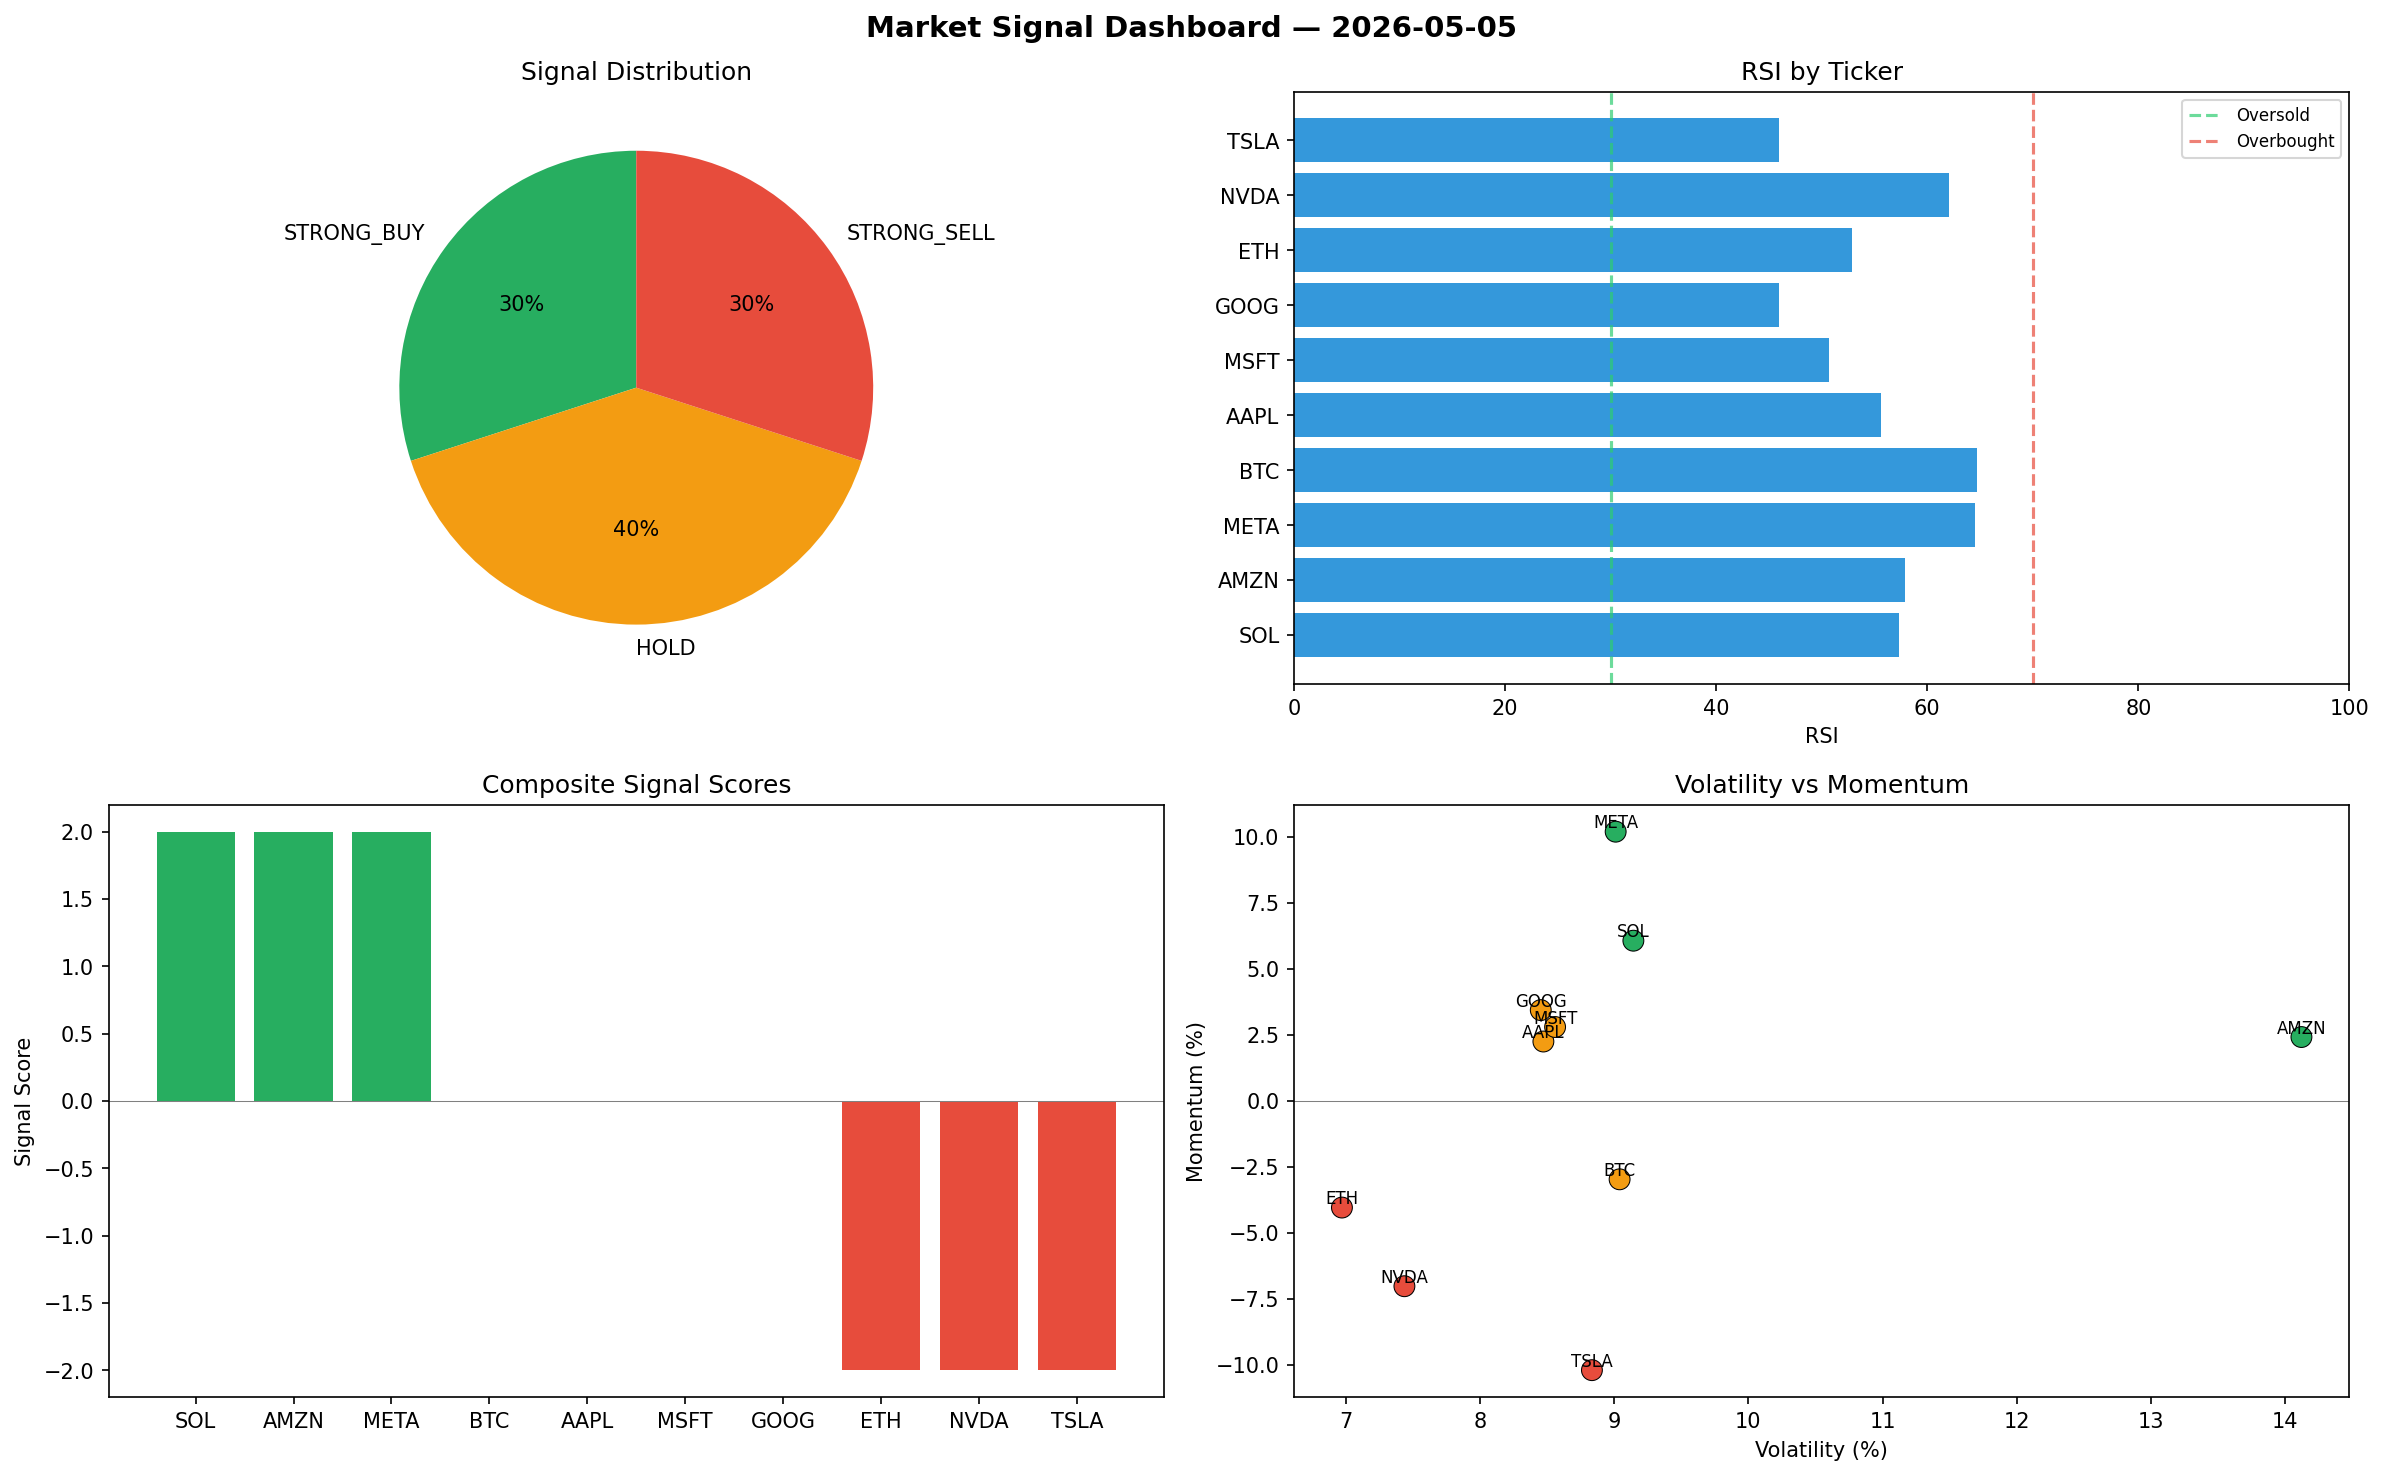
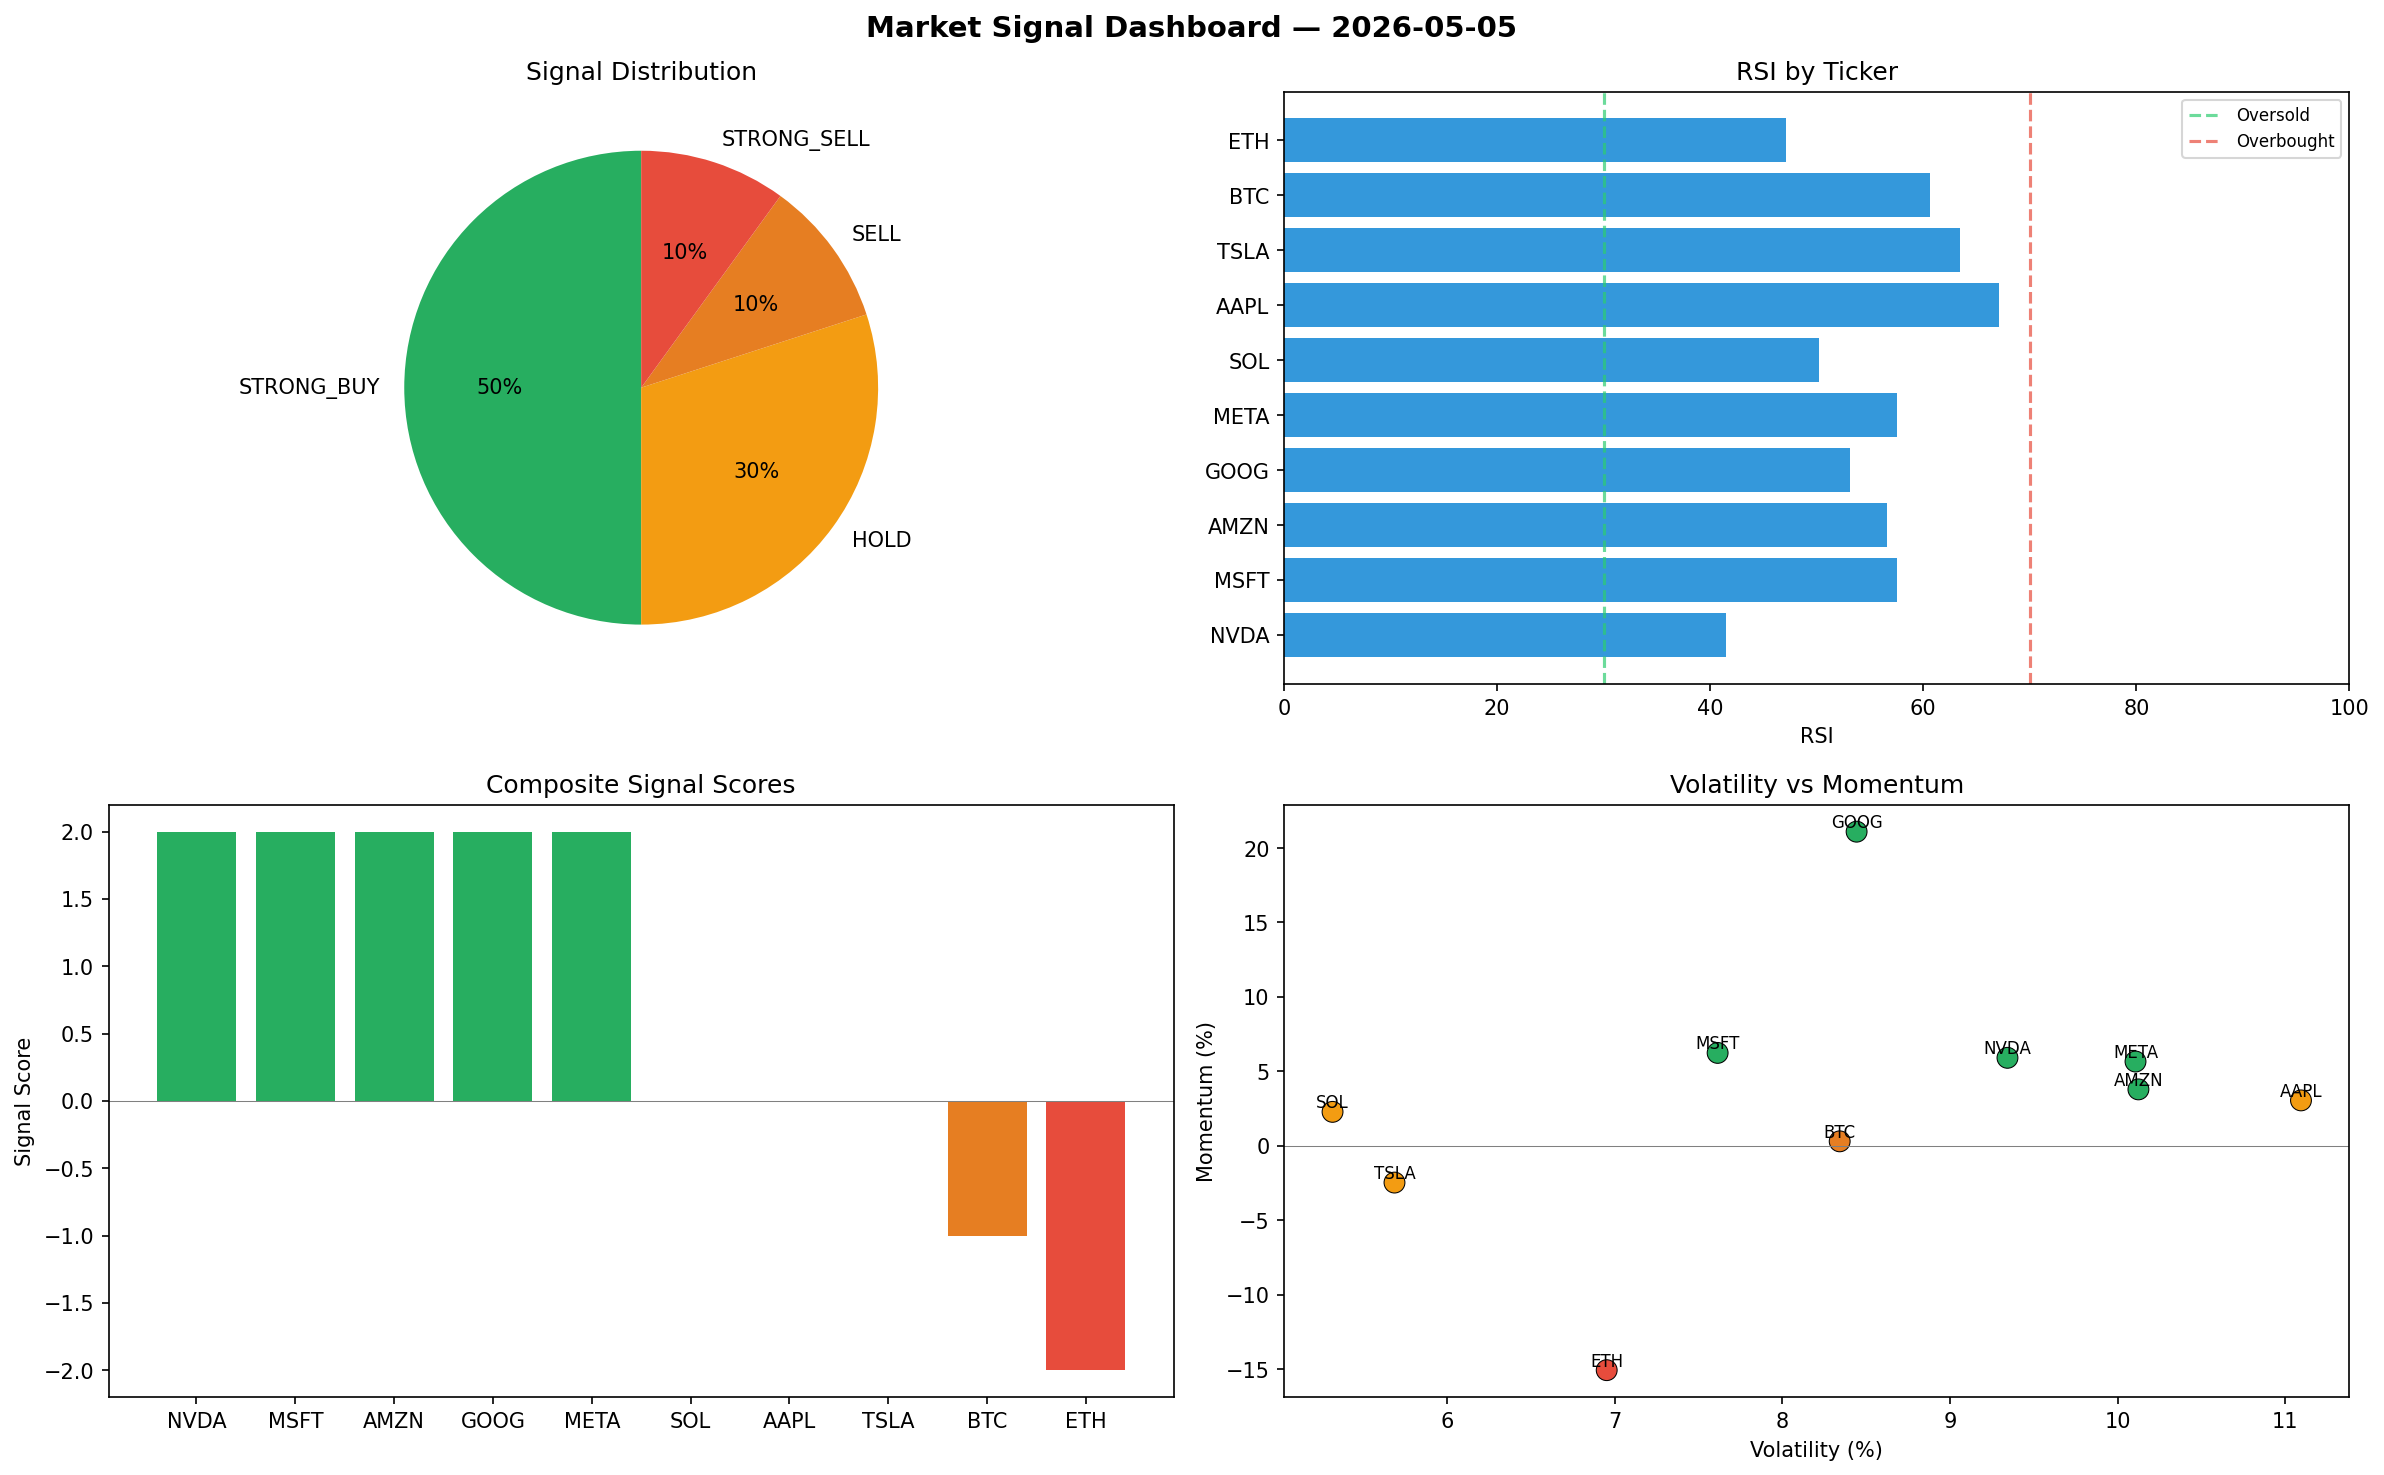
automated-bots: market signals 2026-05-05T16:10

diff --git a/logs/2026-05-05.md b/logs/2026-05-05.md
@@ -1,6 +1,6 @@
 # Market Signal Report — 2026-05-05
 
-**Run ID:** `5cc1a36c1b` | **Buy:** 3 | **Sell:** 3 | **Hold:** 4
+**Run ID:** `6a9372d3d7` | **Buy:** 5 | **Sell:** 2 | **Hold:** 3
 
 ![Dashboard](2026-05-05_dashboard.png)
 
@@ -8,28 +8,28 @@
 
 | Ticker | Price | Signal | Score | RSI | Momentum | Confidence |
 |--------|-------|--------|-------|-----|----------|------------|
-| SOL | $4455.96 | **STRONG_BUY** | 2 | 57.28 | 0.0606 | 0.5 |
-| AMZN | $229.47 | **STRONG_BUY** | 2 | 57.86 | 0.0241 | 0.5 |
-| META | $5340.29 | **STRONG_BUY** | 2 | 64.56 | 0.1019 | 0.5 |
-| BTC | $4887.07 | **HOLD** | 0 | 64.68 | -0.0298 | 0.0 |
-| AAPL | $3223.92 | **HOLD** | 0 | 55.64 | 0.0224 | 0.0 |
-| MSFT | $2513.89 | **HOLD** | 0 | 50.68 | 0.0279 | 0.0 |
-| GOOG | $115.92 | **HOLD** | 0 | 45.98 | 0.0343 | 0.0 |
-| ETH | $4145.26 | **STRONG_SELL** | -2 | 52.89 | -0.0405 | 0.5 |
-| NVDA | $63.37 | **STRONG_SELL** | -2 | 62.1 | -0.0703 | 0.5 |
-| TSLA | $4582.92 | **STRONG_SELL** | -2 | 45.94 | -0.1021 | 0.5 |
+| NVDA | $4366.93 | **STRONG_BUY** | 2 | 41.45 | 0.0591 | 0.5 |
+| MSFT | $5010.01 | **STRONG_BUY** | 2 | 57.49 | 0.0624 | 0.5 |
+| AMZN | $641.59 | **STRONG_BUY** | 2 | 56.63 | 0.0379 | 0.5 |
+| GOOG | $4210.2 | **STRONG_BUY** | 2 | 53.09 | 0.211 | 0.5 |
+| META | $3367.35 | **STRONG_BUY** | 2 | 57.49 | 0.0566 | 0.5 |
+| SOL | $4121.46 | **HOLD** | 0 | 50.24 | 0.0228 | 0.0 |
+| AAPL | $1282.63 | **HOLD** | 0 | 67.13 | 0.0305 | 0.0 |
+| TSLA | $4673.69 | **HOLD** | 0 | 63.44 | -0.0247 | 0.0 |
+| BTC | $4713.88 | **SELL** | -1 | 60.67 | 0.003 | 0.25 |
+| ETH | $2173.75 | **STRONG_SELL** | -2 | 47.07 | -0.1507 | 0.5 |
 
 ## Delta vs Yesterday
 
 | Ticker | Today | Yesterday | Price Change | Signal Changed |
 |--------|-------|-----------|-------------|----------------|
-| SOL | STRONG_BUY | HOLD | 📈 928.24% | ⚠ YES |
-| AMZN | STRONG_BUY | STRONG_BUY | 📉 -94.97% | — |
-| META | STRONG_BUY | STRONG_BUY | 📈 275.6% | — |
-| BTC | HOLD | STRONG_SELL | 📈 1186.44% | ⚠ YES |
-| AAPL | HOLD | HOLD | 📈 7.23% | — |
-| MSFT | HOLD | SELL | 📉 -7.53% | ⚠ YES |
-| GOOG | HOLD | HOLD | 📉 -86.95% | — |
-| ETH | STRONG_SELL | SELL | 📈 3.84% | ⚠ YES |
-| NVDA | STRONG_SELL | STRONG_BUY | 📉 -98.28% | ⚠ YES |
-| TSLA | STRONG_SELL | BUY | 📈 17.78% | ⚠ YES |
+| NVDA | STRONG_BUY | STRONG_BUY | 📈 18.71% | — |
+| MSFT | STRONG_BUY | SELL | 📈 84.29% | ⚠ YES |
+| AMZN | STRONG_BUY | STRONG_BUY | 📉 -85.95% | — |
+| GOOG | STRONG_BUY | HOLD | 📈 374.01% | ⚠ YES |
+| META | STRONG_BUY | STRONG_BUY | 📈 136.84% | — |
+| SOL | HOLD | HOLD | 📈 851.05% | — |
+| AAPL | HOLD | HOLD | 📉 -57.34% | — |
+| TSLA | HOLD | BUY | 📈 20.12% | ⚠ YES |
+| BTC | SELL | STRONG_SELL | 📈 1140.85% | ⚠ YES |
+| ETH | STRONG_SELL | SELL | 📉 -45.55% | ⚠ YES |
